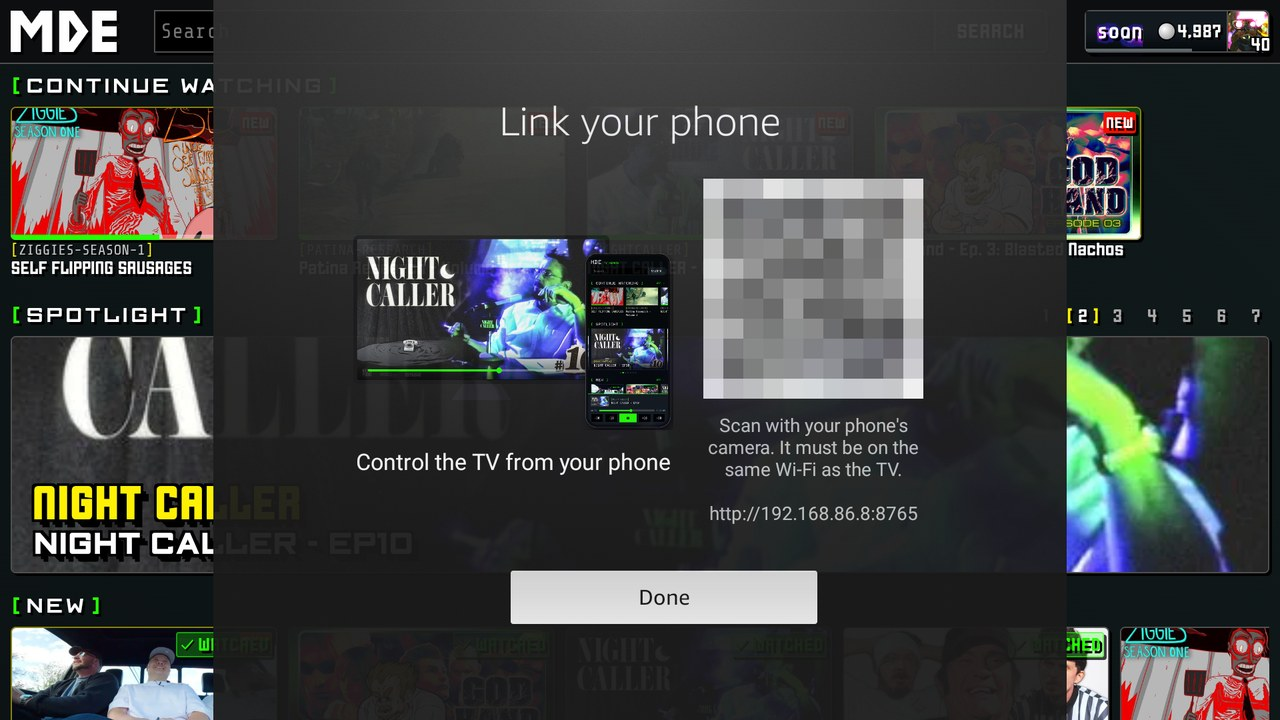
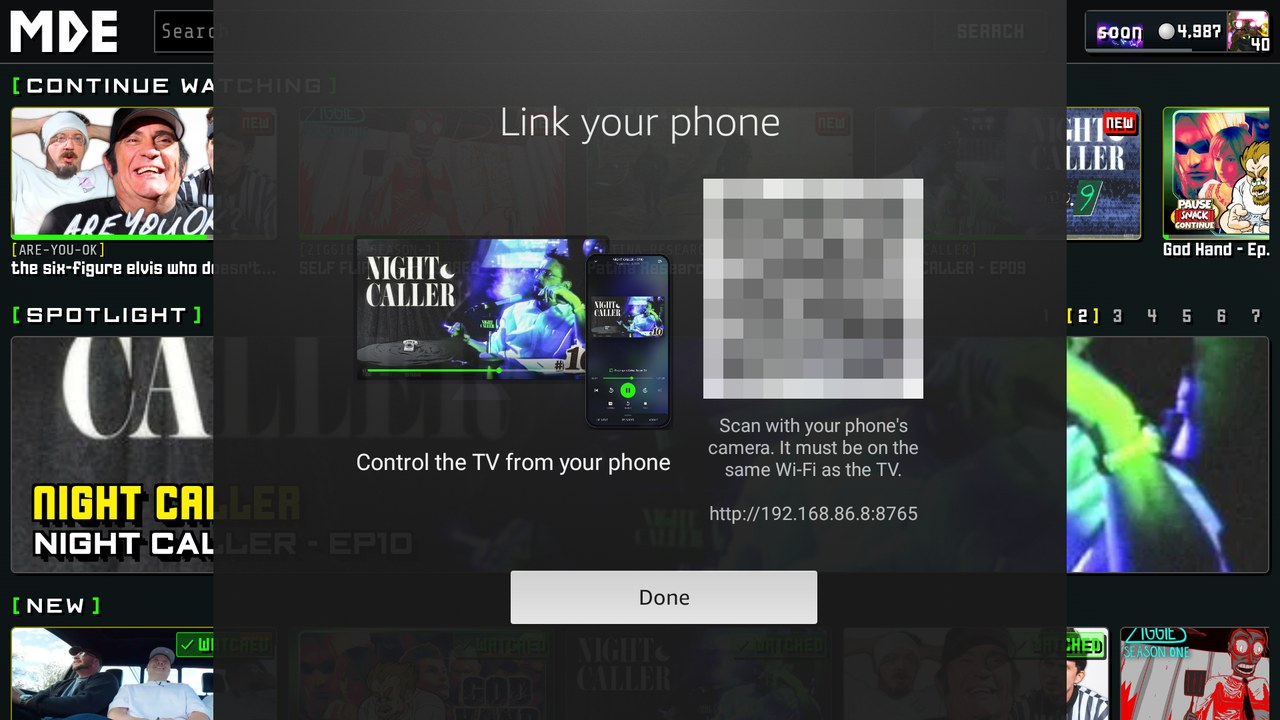
README: re-shoot the phone remote screenshots
The new mini player, player and Up next, and the Link your phone screen
with its new picture (QR pixelated). Also drops the developer guide's
reference to the Chromecast notes, which aren't in the repo.

Claude-Session: https://claude.ai/code/session_016iQTcB7B1yZscQF4sU6sSz

diff --git a/README.md b/README.md
@@ -42,15 +42,16 @@ as the TV.
 
 Your phone gets the app's rows and search: Continue watching, MDE's
 Spotlight, playlists and series, or Fishtank's seasons and live cameras. Tap
-something and it plays on the TV, then pause, skip and scrub from the bar at
-the bottom.
+something and it plays on the TV. Tap the bar at the bottom for the full
+player: pause, skip, scrub, subtitles, and Up next. Tap **+** on any episode
+to queue it.
 
 <table>
 <tr>
 <td><img src="assets/screenshots/phone-mde-home.jpg" alt="MDE phone remote" width="200"></td>
-<td><img src="assets/screenshots/phone-mde-series.jpg" alt="An MDE series on the phone remote" width="200"></td>
+<td><img src="assets/screenshots/phone-mde-player.jpg" alt="The player on the phone remote" width="200"></td>
 <td><img src="assets/screenshots/phone-fishtank-home.jpg" alt="Fishtank phone remote" width="200"></td>
-<td><img src="assets/screenshots/phone-fishtank-season.jpg" alt="A Fishtank season on the phone remote" width="200"></td>
+<td><img src="assets/screenshots/phone-fishtank-upnext.jpg" alt="Up next on the phone remote" width="200"></td>
 </tr>
 </table>
 

diff --git a/fishtank-tv/README.md b/fishtank-tv/README.md
@@ -190,7 +190,7 @@ page.
   must keep the browser's default referrer policy.
 - Why not the site's Cast button: it only casts to Google-certified Cast
   devices (Default Media Receiver `CC1AD845` plus device authentication), so
-  a sideloaded Fire TV app can't appear there. See CHROMECAST_HANDOFF.md.
+  a sideloaded Fire TV app can't appear there.
 
 **mde Pause Snack Continue page.** `renderPscRows` in `dpad.js` hides the
 series list and puts one row per game in its place, newest game first.
